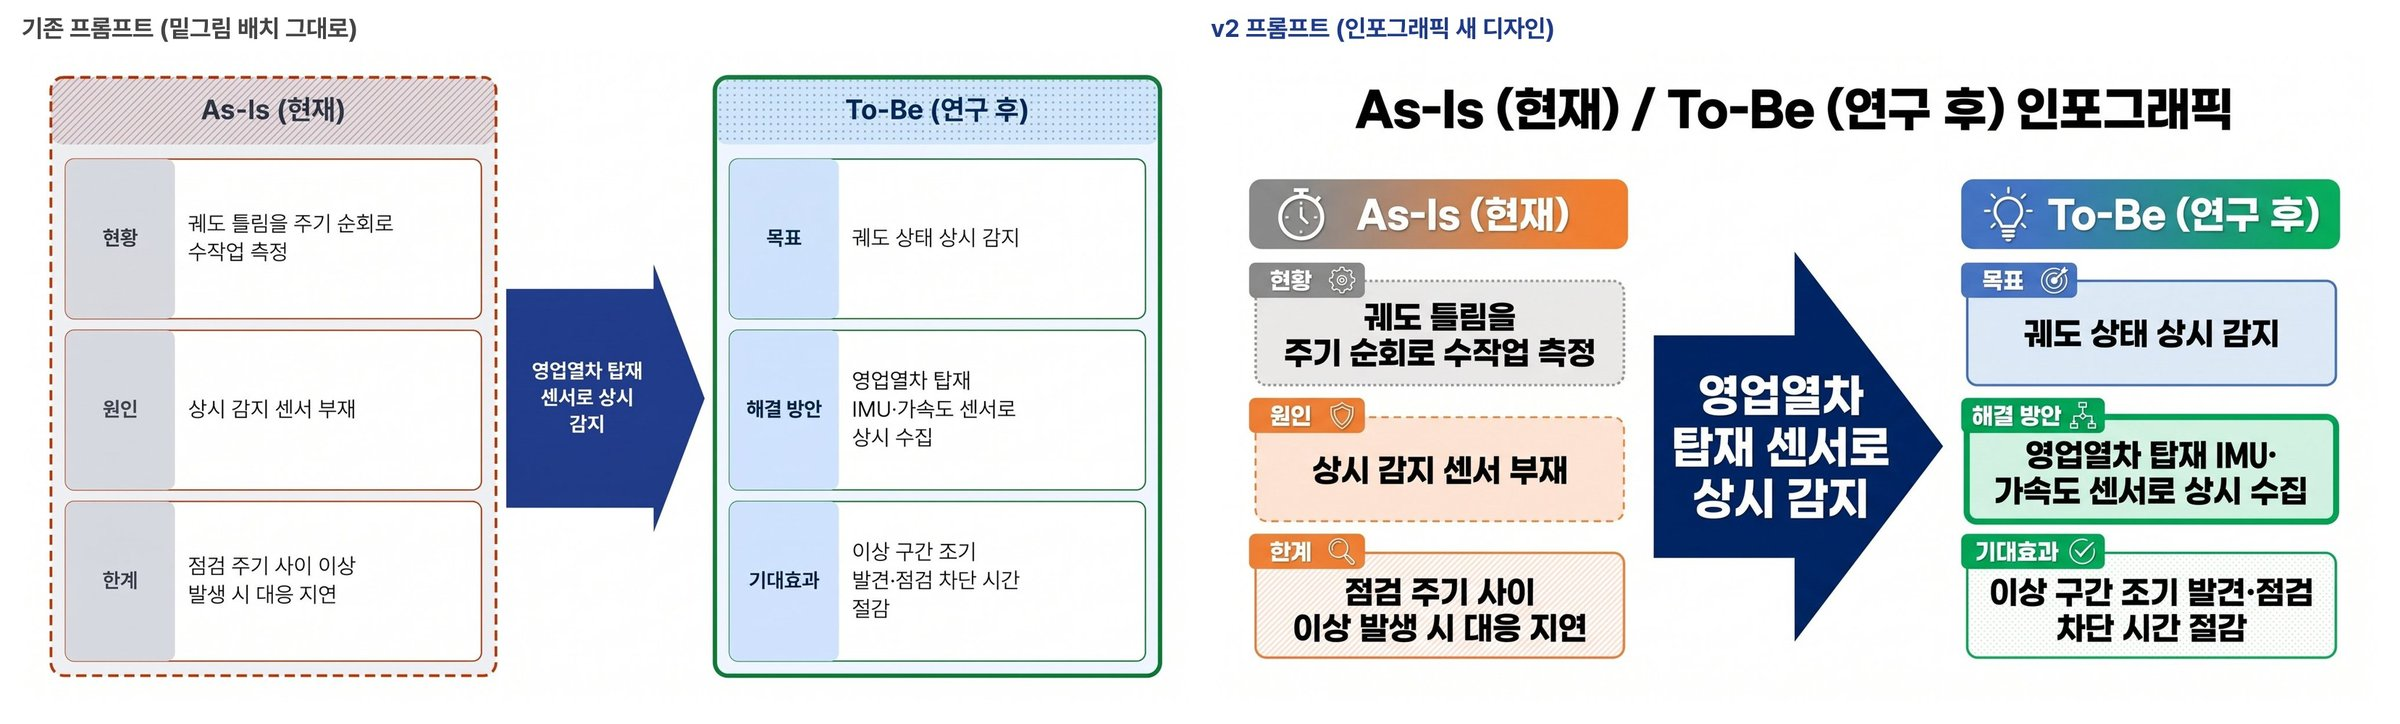
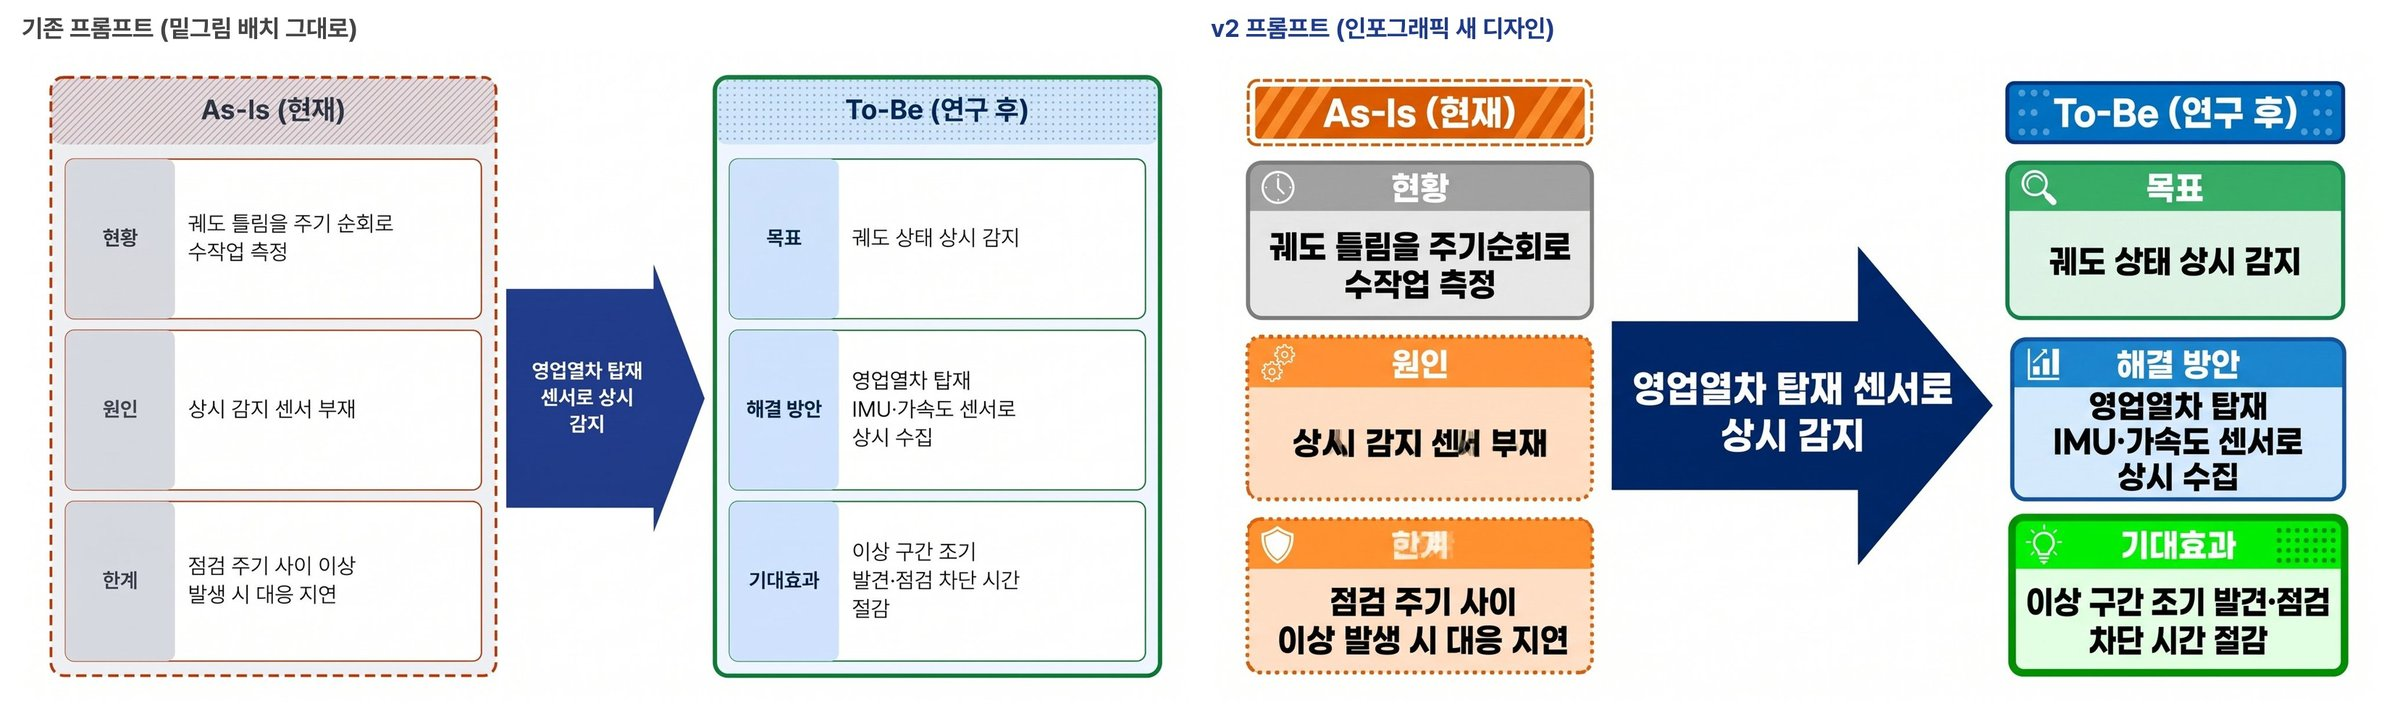
docs(figures): 그림 v2 ADR 0033·측정·architecture §4.20 v2·조각 파일·샘플

Changed region(s): [[0.5, 0.0912, 1.0, 0.942]]

diff --git a/docs/history/decisions/0033-figures-v2-as-is-to-be-techniques.md b/docs/history/decisions/0033-figures-v2-as-is-to-be-techniques.md
@@ -1,0 +1,43 @@
+# ADR 0033 (번호는 병합 때 다시 매길 수 있음) — 그림 v2: 기본 세트 정리·As-Is/To-Be·분석 기법 추천·인포그래픽 프롬프트 (2026-10-28, 레인 C)
+
+## 배경
+시범 운영 첫날 의견: (1) 자동으로 넣은 개념도·체계도·로드맵은 글자가 작고 본문을 되풀이한다. (2) Nano Banana Pro 그림이 회색 밑그림을
+그대로 베낀 모양이라 빈 곳이 크다(ADR 0029 프롬프트의 "참고 이미지 배치 그대로 유지"). (3) 심사자가 한눈에 보는 "현재 → 연구 후" 그림과,
+제안 내용을 SWOT·퓨 매트릭스·비용-편익 같은 분석 틀로 정리한 그림이 있으면 좋겠다.
+
+## 선택지
+1. 기존 6종 유지 + 프롬프트만 개선 — 본문 되풀이 문제는 그대로.
+2. 기법 그림을 앱 규칙으로 고르기(키워드) — 맞지 않는 기법을 억지로 넣는다.
+3. **기본 세트를 As-Is/To-Be + 조건부(수치 그래프·일정표)로 줄이고, 분석 기법은 Argon 이 이 제안에 의미 있는 것만 0~2개 골라 실제로
+   분석한 결과를 명세로 받아 그린다.** 맞는 기법이 없으면 "해당 없음"(사유)으로 끝낸다.
+
+## 결정
+- 3번. 기본 그림 = `as_is_to_be`(2-나 연구목적, 비면 2-가-(2)) → `stat_chart`(검증 수치) → `schedule`(연구기간) + 분석 기법 추천
+  `technique_slots`(남은 자리, 최대 2) — 합쳐 최대 4장. 개념도·체계도·로드맵·비교는 [다른 그림 추가]에서만(`figures.yaml auto_kinds`).
+  양식에 "연구배경 및 필요성" 칸이 없어 As-Is/To-Be 는 `objective` 에 붙인다.
+- As-Is/To-Be 명세: 쪽마다 3~4칸(이름표 현황·원인·한계 / 목표·해결 방안·기대효과, 다듬기가 자리대로 맞춤) + 가운데 화살표 한 줄. 글자는
+  입력·초안·인용 근거에서만(`validate_spec`). 밑그림은 왼쪽 점선·빗금(회색·주황), 오른쪽 굵은 실선·점(파랑·초록) — 흑백에서도 구분.
+- 분석 기법 20종 `config/figures/techniques.yaml`(핵심 내용·적합한 상황·묶음·척도·칸). 고르기·분석은 Argon(review provider, 예산 래퍼) 먼저,
+  실패면 로컬, 모델마다 교정 1회(`TechniqueSteps`). 종류별 규칙(`domain/rules/techniques.py`): 정성 = 고정 묶음 + 강도 상·중·하,
+  비교·평가 = 열×기준 표 + 척도 기호(+/0/− 또는 상·중·하), 경제성 = 금액은 제안·근거에 그대로 있는 수치만(아니면 "산출 필요", 새로
+  계산하지 않음), 연구 절차(델파이·문헌고찰) = 등급 없음. 모든 기법 그림에 "제안 내용 기반 예비 평가". 항목마다 출처(문장 id·근거 id·
+  입력 칸)를 남기고 카드 "항목 출처"로 보인다(내부 id 대신 "2-다 … 문장 1"·"제안 입력: 발생 원인"·"근거 자료").
+- 추천 그림은 `Figure.recommendation{technique, reason, status pending|accepted|dismissed, swapped_from}`. 카드 [넣기 확정]·[필요 없음]
+  (섹션 아래 접힘, 다시 넣기)·[다른 기법으로 바꾸기](같은 자리, 다시 결정 전). 모두 새 버전이고 `figure_diff` 에 accepted·dismissed·
+  restored·swapped 로 한 건씩 잡힌다(버전 비교 "변경 n건"). 결정 전 추천은 제출 전 점검 "결정 전 추천 그림", 그대로 마무리하면 들어간다.
+- 빈 결과도 사유: `RunState.figure_techniques{status: recommended|none|failed|filtered|off, reason, picks, dropped}` → 화면 "분석 기법
+  추천: 해당 없음 — <사유>" + [다시 시도](`POST /v1/runs/{id}/figures/techniques`, 이미 있는 기법은 빼고 남은 자리만).
+- 그림 프롬프트(`image_prompt`): "밑그림은 내용 구조만 — 새로 디자인"(제목 계층·색 강조·일반 아이콘·고른 여백·큰 글씨·흑백 구분),
+  글자 목록 그대로·더하지 않기 유지, 그래프·일정표만 값·기간 비율 유지. 제목 글자가 목록에 없는 종류는 "제목을 새로 쓰지 않는다"
+  (첫 실측에서 "… 인포그래픽" 제목을 지어 씀). 비율은 내용 양(`choose_aspect`: 21:9·16:9·3:2·4:3), 밑그림·그림 생성이 같은 비율.
+  상자 글자는 새 명세에서 30자(`MAX_BOX`, 1~2줄)로 줄인다(저장된 명세는 그대로 읽힌다).
+- 공용 계정 run(scope public)은 기법 프롬프트·출처·pool 에서 internal 청크를 뺀다. 캡션 12pt·가운데 정렬은 레인 D 의 HWPX 작업에 맡긴다.
+
+## 결과 (2026-10-28 오후)
+- 측정 `docs/eval-2026-10-28-figures-v2.md` — 같은 명세 6종 기존/v2 프롬프트 나란히, Argon 추천 1회(퓨·SWOT, 텍스트 3회·64초).
+- 테스트: 백엔드 +37(규칙 13·유스케이스 12·RunManager 6·REST 3·밑그림 3, 기존 테스트 갱신), vitest +7(추천 카드, axe 0), e2e 1 추가·2 갱신.
+
+## 후속
+- Nano Banana 가 큰 글씨로 그리며 일부 글자가 뭉개지는 경우(As-Is/To-Be 2회차 "센서"·"한계")가 있다 — 확인 전 배지·제출 전 점검으로 잡고,
+  필요하면 [기본 그림으로]. 글자 정확도 OCR 대조는 여전히 하지 않는다(ADR 0029).
+- 골든셋에서 기법 추천률·"해당 없음" 비율·제안자 결정(넣기 확정/필요 없음) 비율을 잰다(`rra eval` 열 추가는 후속).

diff --git a/docs/eval-2026-10-28-figures-v2.md b/docs/eval-2026-10-28-figures-v2.md
@@ -1,0 +1,41 @@
+# [G] 그림 v2 측정 (2026-10-28 오후, 레인 C, ADR 0033)
+
+mlx 미사용·실제 생성 없음(시범 운영 중). 예산 카운터는 레인 전용(`data/cache/figure_budget_laneC.json`·`llm_budget_laneC.json`).
+명세는 `tools/figure_samples.py` 의 가짜 명세(실제 과제 아님). 밑그림은 resvg 300dpi, 그림은 `gemini-3-pro-image` 2K 1회, 동시 3.
+
+## 1. 같은 명세 — 기존 프롬프트(밑그림 배치 그대로) vs v2 프롬프트(인포그래픽 새 디자인)
+
+| 샘플 | 기존 비율 | v2 비율 | 기존(s) | v2(s) | 나란히 |
+|---|---|---|---|---|---|
+| As-Is/To-Be | 16:9 | 16:9 | 29.6 | 28.5 · 30.1(2회차) | `screens/2026-10-28-figures-v2-as_is_to_be-before-after.jpg` |
+| SWOT | 16:9 | 4:3 | 34.5 | 30.0 | `…-technique-swot-before-after.jpg` |
+| 퓨 매트릭스 | 16:9 | 16:9 | 31.9 | 31.6 | `…-technique-pugh-before-after.jpg` |
+| 비용-편익 | 16:9 | 21:9 | 28.1 | 30.2 | `…-technique-cost_benefit-before-after.jpg` |
+| 개념도 | 16:9 | 16:9 | 27.4 | 32.2 | `…-concept-before-after.jpg` |
+| 체계도 | 16:9 | 16:9 | 30.0 | 32.4 | `…-process-before-after.jpg` |
+
+- 성공 13/13(실패·기본 그림 대체 0). 장당 27~35초(중앙값 30.2초) — 프롬프트가 길어져도 시간은 같다.
+- 눈으로 본 차이: 기존은 회색 상자를 그대로 옮겨 빈 곳이 크고 글자가 작다. v2 는 머리글 색 띠·일반 아이콘(시계·톱니·방패·전구)·
+  칸별 색(As-Is 회색·주황 / To-Be 파랑·초록)·큰 글씨로 그렸고, 점선·빗금·점 무늬로 흑백에서도 구분된다. 비율을 내용 양으로 바꾼
+  SWOT(4:3)·비용-편익(21:9)은 빈 공간이 줄었다.
+- 문제 1 — v2 첫 As-Is/To-Be 는 목록에 없는 제목 "As-Is (현재) / To-Be (연구 후) 인포그래픽"을 지어 썼다
+  (`…-as_is_to_be-first-try-invented-title.jpg`). → 제목 글자가 목록에 없는 종류는 "그림 맨 위에 제목을 새로 쓰지 않는다"를 넣었다.
+  2회차는 제목 없이 그렸다.
+- 문제 2 — 2회차 As-Is/To-Be 에 글자 뭉개짐 2곳("상시 감지 센서 부재"의 일부 글자, 이름표 "한계"). 큰 글씨·무늬 배경에서 생긴다.
+  자동 대조는 하지 않으므로(ADR 0029) 카드 "확인 전"·제출 전 점검이 잡고, 제안자가 [다시 만들기]·[기본 그림으로]를 고른다.
+- 글자 목록 밖 글자(첫 회 제목 외)·숫자 추가는 보지 못했다. 등급 기호(+/0/−, 상·중·하)는 기호·진하기로 함께 표시했다.
+
+## 2. Argon 분석 기법 추천 1회 (가짜 제안: 영업열차 탑재 센서 궤도 상태 상시 감지)
+
+- 고르기 1회 + 분석 2회 = Gemini 텍스트 3회(교정 재요청 0), 그림 2장, 전체 64.4초(고르기·분석 ≈ 30초 + 그림 동시 2장 34초).
+- 고른 기법과 이유(모델 원문):
+  - 퓨 매트릭스 — "현행 수작업 점검 대비 검측차 고도화·영업열차 센서 방식을 정확도·차단시간·도입부담으로 비교할 수 있음."
+    → 열 `수작업 측정(기준)·검측차 고도화 방식·영업열차 탑재 센서 방식`, 기준 5개(정확도·차단 시간·도입 부담·궤도 상태 상시 감지·
+    유지보수 비용 절감), 출처는 본문 문장 id. 판단 하나는 따져 볼 만하다: 센서 방식 "도입 부담" 을 +로 매김(예비 평가 안내가 붙는다).
+  - SWOT — "축적된 검측 이력(강점), 야간 수작업 한계(약점), 센서 단가 하락(기회) 등이 본문·근거에 드러나 있음."
+    → 4칸 6항목, 강도 상·중, 출처는 본문 문장·입력 칸·근거 청크.
+- 그림: `screens/2026-10-28-figures-v2-argon-pugh.jpg`·`…-argon-swot.jpg`(Nano Banana 채택, 각 34초).
+
+## 3. 호출 합계
+
+- 이미지 15회(상한 30), Gemini 텍스트 3회(상한 80). 운영 일일 카운터는 건드리지 않았다.

diff --git a/docs/status.d/feat-figures-v2.md b/docs/status.d/feat-figures-v2.md
@@ -1,0 +1,24 @@
+# 그림 v2 — 기본 그림 정리·As-Is/To-Be·디자인 개선·분석 기법 추천 — feat/figures-v2 (2026-10-28, 레인 C)
+
+## 현황 행 (docs/status.md 용)
+| 2026-10-28 | [G] 그림 v2 (10·3·4·11) | 기본 그림 = As-Is/To-Be 1(+ 검증 수치 그래프·일정표) + 분석 기법 추천 0~2, 최대 4장. 개념도·체계도·로드맵은 [다른 그림 추가]에서만. 기법 20종(`config/figures/techniques.yaml`)을 Argon(실패면 로컬)이 고르고 제안 내용으로 분석 → Nano Banana. 추천 배지·이유, [넣기 확정]·[필요 없음](접힘·다시 넣기)·[다른 기법으로 바꾸기], 빈 결과도 사유 + [다시 시도], 제출 전 점검 "결정 전 추천 그림". 그림 프롬프트 "새로 디자인"·비율 자동 | ADR 0033, architecture §4.20 v2, `docs/eval-2026-10-28-figures-v2.md` |
+
+## 완료
+- 도메인: `AsIsToBeSpec`·`TechniqueSpec`·`FigureRecommendation`·`TechniqueOutcome`, `RunState.figure_techniques`, `MAX_BOX` 30;
+  규칙 `rules/techniques.py`(목록·고르기·종류별 분석 규칙·출처), `rules/figures`(choose_default v2·technique_slots·choose_aspect·인포그래픽
+  image_prompt·As-Is/To-Be 검사·다듬기·추천 결정 diff·undecided).
+- 유스케이스 `figure_techniques.TechniqueSteps`(MakeFigures 가 물려받음), RunManager `_figures_step`(기본 + 추천 동시)·`retry_techniques`·
+  `figure_action` accept·dismiss·restore·swap·`add_figure(technique=)`, 제출 전 점검 `figures_undecided`.
+- 어댑터: 밑그림 SVG 2종(As-Is/To-Be 점선·빗금 / 실선·점, 기법 묶음 카드·평가 표·금액 배지), 렌더러 `svg(aspect=)`, 프롬프트
+  `figure_techniques.md`, `figures.md` 상자 30자·As-Is/To-Be 규칙, 가짜 모드 답(As-Is/To-Be·SWOT·비용-편익·퓨).
+- REST: 그림 목록 `techniques`·`technique_catalog`, 그림 필드 `technique`·`family_label`·`prelim_note`·`provenance`·`recommendation`,
+  `POST /v1/runs/{id}/figures/techniques`, `FigureActionIn.action` accept·dismiss·restore·swap + `technique`, `FigureAddIn.kind`
+  as_is_to_be·technique + `technique`.
+- 웹: `features/figures/TechniqueCard.tsx`(추천 패널·항목 출처·바꾸기 대화상자·접힌 추천·추천 결과), `api.ts`, `api/types-figures.ts`,
+  [다른 그림 추가] 8종·기법 선택, 버전 비교 라벨 4개.
+- 실호출: 이미지 15·텍스트 3 — 기존/v2 나란히 6종 + Argon 추천 1회(퓨·SWOT), 장당 27~35초.
+
+## 남은 일
+- 골든셋에서 기법 추천률·해당 없음 비율·제안자 결정 비율 측정(`rra eval` 열 추가).
+- Nano Banana 큰 글씨 글자 뭉개짐(2회차 As-Is/To-Be 2곳) — 확인 전·제출 전 점검으로 잡는다.
+- 통합 담당: `rra api schema` → openapi.json, `npm run gen:api` 뒤 `types-figures.ts` 와 겹치는 타입 정리, CLAUDE.md [G] 줄에 v2 한 줄.

diff --git a/docs/architecture.md b/docs/architecture.md
@@ -942,6 +942,14 @@ fragment 를 자동 재실행하지 않으므로 `Worker.wait(run_id)` 뒤 `at.r
   (밑그림 그대로) + `ScriptedComposeLLM` 의 `[그림 명세:` 분기.
 - **측정** `rra eval` `EvalIdea.figures_total/figures_nano/figures_baseline/figures_skipped/figure_calls/figure_seconds/figure_comments`.
   끄기: `config/figures.yaml enabled: false`(단계·검토 전송·삽입 전부 생략).
+- **v2 (2026-10-28 오후, ADR 0033)**: 기본 그림은 `as_is_to_be`(2-나 연구목적, 비면 2-가-(2)) → `stat_chart` → `schedule`
+  (`figures.yaml auto_kinds`) + 분석 기법 추천 `technique_slots`(최대 2) — 합쳐 최대 4장. 개념도·체계도·로드맵·비교는 [다른 그림 추가]에서만.
+  기법 20종 `config/figures/techniques.yaml`, 고르기·분석 `application/usecases/figure_techniques.TechniqueSteps`(Argon → 로컬, 교정 1회),
+  규칙 `domain/rules/techniques.py`(정성 = 고정 묶음 + 상·중·하, 비교·평가 = 척도 표, 경제성 = 근거 수치만·없으면 "산출 필요", 항목 출처,
+  "제안 내용 기반 예비 평가"). 추천 기록 `Figure.recommendation`(pending·accepted·dismissed), 결과 `RunState.figure_techniques`
+  (recommended·none·failed·filtered·off). 카드 동작 accept·dismiss·restore·swap(새 버전, `figure_diff` 한 건씩), [다시 추천]
+  `POST /v1/runs/{id}/figures/techniques`, 제출 전 점검 `figures_undecided`. 그림 프롬프트는 "새로 디자인"(색 강조·아이콘·제목 계층·여백,
+  글자 목록 그대로), 비율 `rules.choose_aspect`(내용 양, 밑그림과 같은 값), 새 명세 상자 글자 30자(`MAX_BOX`).
 
 ## 5. 추가 권장 10항목
 

diff --git a/docs/history/timeline.d/2026-10-28-feat-figures-v2.md b/docs/history/timeline.d/2026-10-28-feat-figures-v2.md
@@ -1,0 +1,1 @@
+| 2026-10-28 | [G] 그림 v2 — 기본 그림 = As-Is/To-Be + 분석 기법 추천 0~2(+ 수치 그래프·일정표, 최대 4장), 개념도·체계도·로드맵은 [다른 그림 추가]에서만. 기법 20종을 Argon 이 고르고 제안 내용으로 분석(정성 상·중·하, 비교 +/0/−, 경제성은 근거 수치만·없으면 "산출 필요", 항목 출처, 예비 평가), 추천 카드 [넣기 확정]·[필요 없음]·[다른 기법으로 바꾸기], 빈 결과도 사유. 그림 프롬프트를 "밑그림 배치 그대로" → "인포그래픽 새로 디자인"으로, 비율은 내용 양으로 | 시범 의견: 자동 개념도·체계도·로드맵은 글자가 작고 본문을 되풀이, Nano Banana 그림이 회색 밑그림을 베껴 빈 곳이 큼 | #TBD | 같은 명세 6종 기존/v2 나란히(성공 13/13, 장당 27~35초), Argon 추천 1회 64초(텍스트 3·그림 2), 첫 v2 에서 지어낸 제목 1건 → 프롬프트 보완 (docs/eval-2026-10-28-figures-v2.md, ADR 0033) |

diff --git a/docs/history/progress.d/feat-figures-v2.md b/docs/history/progress.d/feat-figures-v2.md
@@ -12,3 +12,6 @@
 - 실호출 누계: 이미지 14/30(장당 27~35초), Gemini 텍스트 3/80 (laneC 카운터).
 - 다음: 웹 vitest 3건 실패 수정(onApplied 대기 — mock 응답 모양), e2e figures.spec 갱신(As-Is/To-Be·추천 넣기/빼기), as_is_to_be
   제목 규칙 반영 뒤 샘플 1장 다시(+1 이미지), ruff E501 2건, ADR 0033·status·timeline·metrics 조각, PR.
+- 재개 뒤: vitest 3건(그림 id 가 인코딩된 주소) 고침, e2e figures.spec 갱신·추가(전체 18 통과·2 건너뜀), 제목 규칙 반영 뒤
+  As-Is/To-Be 1장 다시(제목 없음, 글자 뭉개짐 2곳 — eval 에 기록), ADR 0033·eval 문서·architecture §4.20 v2·조각 파일, PR.
+  실호출 최종: 이미지 15/30, 텍스트 3/80.
